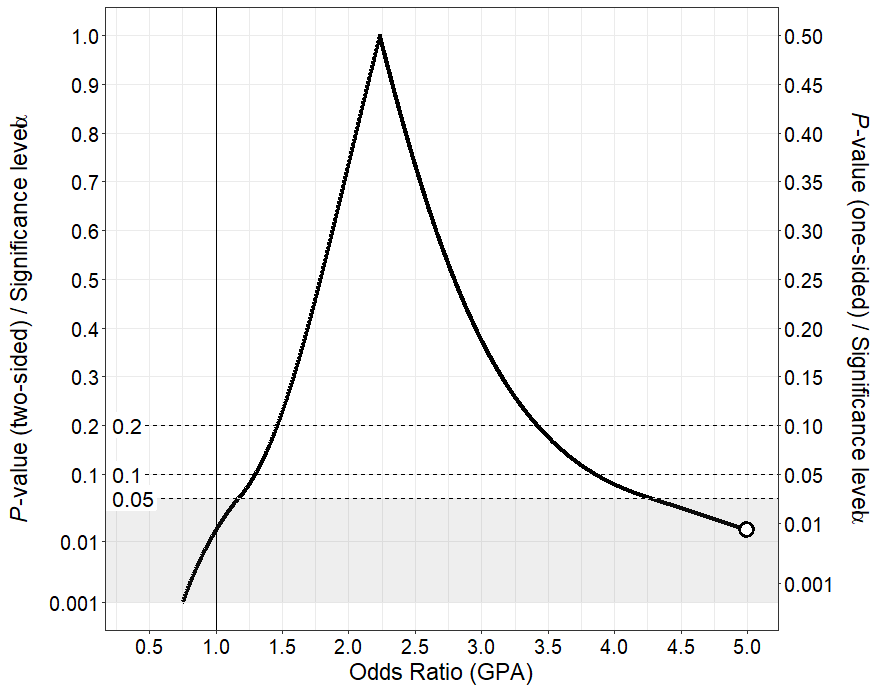
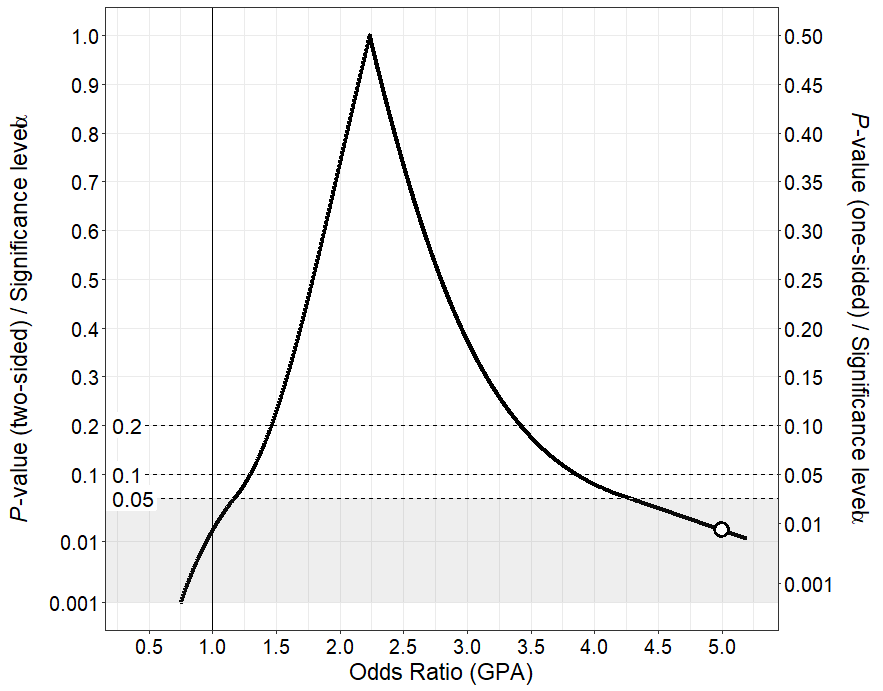
Added example with confidence density and point estimates for variance from normal population.

diff --git a/README.md b/README.md
@@ -29,6 +29,8 @@ pvaluefunctions
       - [Difference between two independent proportions: Agresti-Caffo
         adjusted Wald
         interval](#difference-between-two-independent-proportions-agresti-caffo-adjusted-wald-interval)
+      - [Confidence density of a variance estimate from a normal
+        distribution](#confidence-density-of-a-variance-estimate-from-a-normal-distribution)
   - [References](#references)
   - [Contact](#contact)
   - [Session info](#session-info)
@@ -334,6 +336,9 @@ res <- conf_dist(
 
 <img src="man/figures/README-linreg_single_cdf-1.png" width="80%" style="display: block; margin: auto;" />
 
+The point where the confidence distribution is \(0.5\) is the median
+unbiased estimator (see Xie & Singh (2013) for a review and proofs).
+
 ### Multiple coefficients from a linear regression model
 
 #### *P*-value functions
@@ -489,13 +494,13 @@ res <- conf_dist(
   , n_values = 1e4L
   , est_names = c("GPA")
   , conf_level = c(0.95, 0.90, 0.80)
-  , null_values = c(log(1))
+  , null_values = c(log(1)) # null value on the log-odds scale
   , trans = "exp"
   , alternative = "two_sided"
   , log_yaxis = TRUE
   , cut_logyaxis = 0.05
   , xlab = "Odds Ratio (GPA)"
-  , xlim = log(c(0.4, 5))
+  , xlim = log(c(0.4, 5.2)) # axis limits on the log-odds scale
   , together = FALSE
   , plot_p_limit = 1 - 0.999
   , plot_counternull = TRUE
@@ -615,6 +620,48 @@ res <- conf_dist(
 
 <img src="man/figures/README-propdiff_agresticaffo-1.png" width="80%" style="display: block; margin: auto;" />
 
+### Confidence density of a variance estimate from a normal distribution
+
+The confidence density of a variance estimate is skewed. This means that
+the mean, mode and median of the confidence density will not be
+identical, in general.
+
+``` r
+
+# Simulate some data from a normal distribution
+
+set.seed(142857)
+var_est <- var(x <- rnorm(20, 100, 15))
+
+res <- conf_dist(
+  estimate = var_est
+  , n = length(x)
+  , type = "var"
+  , plot_type = "pdf"
+  , n_values = 1e4L
+  , est_names = c("Variance")
+  , log_yaxis = TRUE
+  , cut_logyaxis = 0.05
+  , conf_level = c(0.95)
+  # , null_values = c(15^2, 18^2)
+  , trans = "identity"
+  , alternative = "two_sided"
+  , xlab = "Variance"
+  , xlim = c(100, 900)
+  , together = TRUE
+  , plot_p_limit = 1 - 0.999
+  , plot_counternull = TRUE
+)
+```
+
+``` r
+# Add vertical lines at the point estimates (mode, median, mean)
+
+res$plot + ggplot2::geom_vline(xintercept = as.numeric(res$point_est[1, 1:3]), linetype = 2, size = 1)
+```
+
+<img src="man/figures/README-variance_plot-1.png" width="80%" style="display: block; margin: auto;" />
+
 ## References
 
 Bender R, Berg G, Zeeb H. (2005): Tutorial: using confidence curves in
@@ -684,12 +731,12 @@ distribution estimator of a parameter: A review. *Internat Statist Rev.*
     #> [28] devtools_2.0.2     tidyselect_0.2.5   rprojroot_1.3-2   
     #> [31] grid_3.6.0         glue_1.3.1         R6_2.4.0          
     #> [34] processx_3.3.1     rmarkdown_1.13     sessioninfo_1.1.1 
-    #> [37] purrr_0.3.2        callr_3.2.0        ggplot2_3.1.1.9000
-    #> [40] magrittr_1.5       scales_1.0.0       backports_1.1.4   
-    #> [43] ps_1.3.0           htmltools_0.3.6    usethis_1.5.0     
-    #> [46] assertthat_0.2.1   colorspace_1.4-1   labeling_0.3      
-    #> [49] stringi_1.4.3      lazyeval_0.2.2     munsell_0.5.0     
-    #> [52] crayon_1.3.4
+    #> [37] zipfR_0.6-10       purrr_0.3.2        callr_3.2.0       
+    #> [40] ggplot2_3.1.1.9000 magrittr_1.5       scales_1.0.0      
+    #> [43] backports_1.1.4    ps_1.3.0           htmltools_0.3.6   
+    #> [46] usethis_1.5.0      assertthat_0.2.1   colorspace_1.4-1  
+    #> [49] labeling_0.3       stringi_1.4.3      lazyeval_0.2.2    
+    #> [52] munsell_0.5.0      crayon_1.3.4
 
 ## License
 
